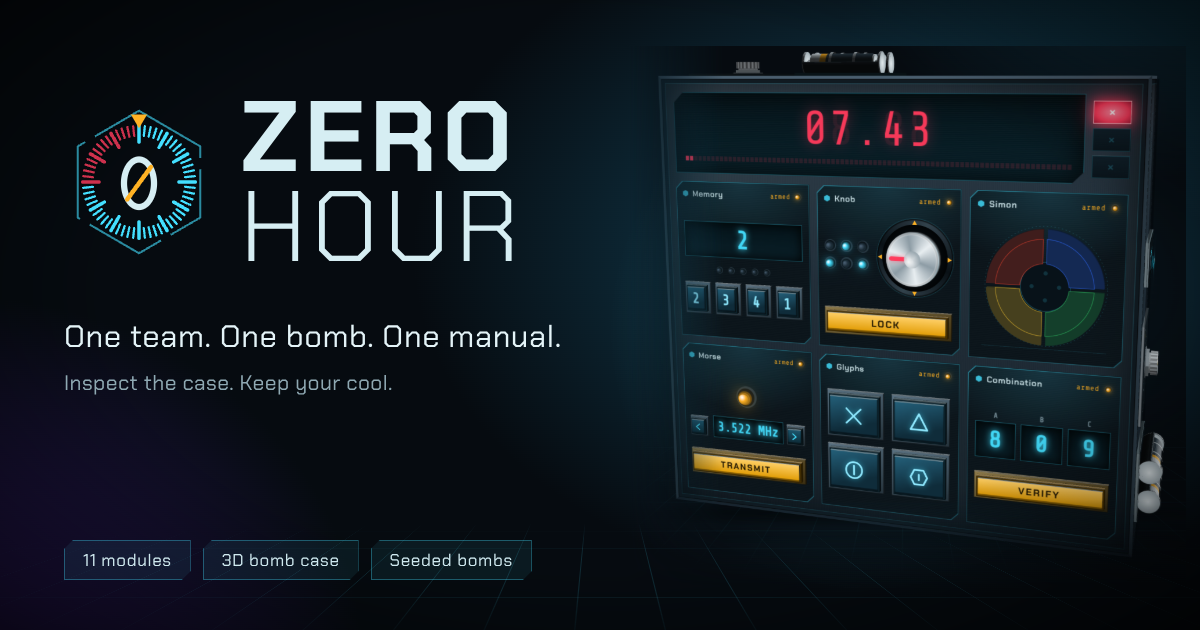
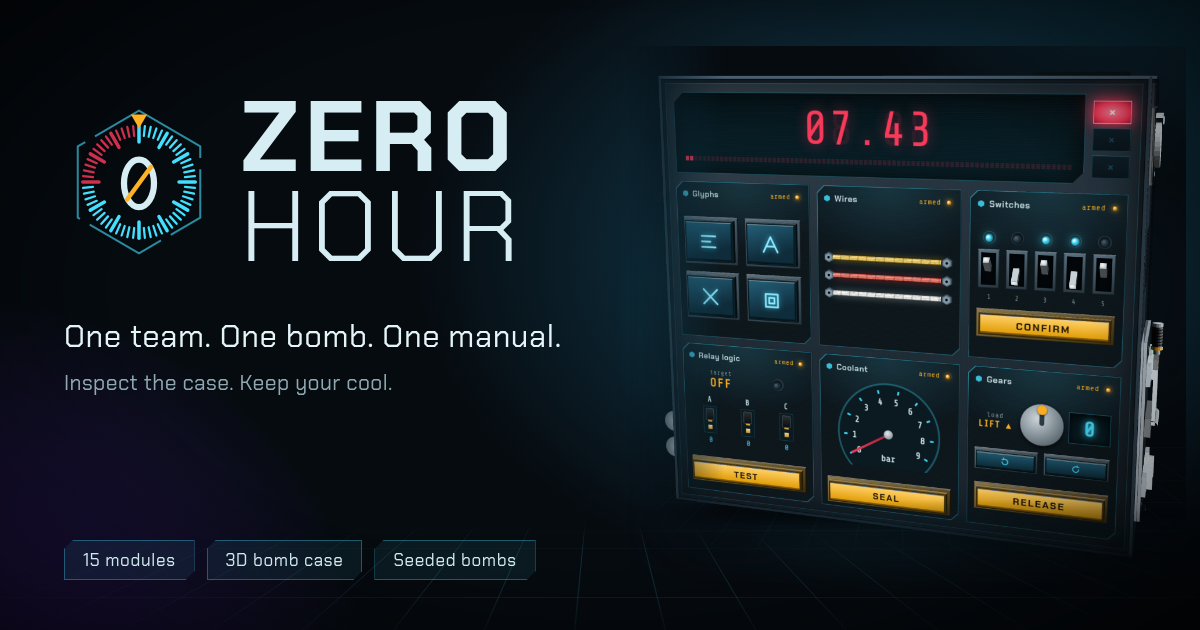
Refresh the social preview with the new modules

diff --git a/README.md b/README.md
@@ -1,6 +1,6 @@
 # Zero Hour
 
-[![Zero Hour: a 3D bomb case with Memory, Knob, Simon, Morse, Glyphs and Combination modules](site/zero-hour-preview.png)](https://zero-hour.sunken.dev/)
+[![Zero Hour: a 3D bomb case with Glyphs, Wires, Switches, Relay logic, Coolant and Gears modules](site/zero-hour-preview.png)](https://zero-hour.sunken.dev/)
 
 **One team. One bomb. One manual.**
 
@@ -9,7 +9,8 @@ other reads the manual and cannot see the bomb. Describe what you see, find the 
 
 Live at **https://zero-hour.sunken.dev/**
 
-- 11 modules with a front and, for some, a rear plate on the back of the bomb
+- 15 modules, each rated easy, medium or hard, with a front and, for most, a rear plate on the back of the bomb
+- choose a difficulty: modules of that rating come up more often
 - a 3D case you turn with the mouse, with hints hidden on all sides
 - seeds: the same seed with the same settings gives the same bomb
 - a manual built from the same source as the game, also as a PDF
@@ -59,8 +60,9 @@ test fails if you forget, and the deploy workflow rebuilds the PDF anyway.
 
 ### Adding a module
 
-A module is one `Modules.register({ ... })` block in `site/index.html`: `id`, `title`, `create(bomb, r)`, `mount(root, state, ctl)`
-and `manual()`, plus optional `mountBack` and `manualBack` for a rear plate, `max` and `needs`. The comment above the module
+A module is one `Modules.register({ ... })` block in `site/index.html`: `id`, `title`, `difficulty`, `create(bomb, r)`,
+`mount(root, state, ctl)` and `manual()`, plus optional `mountBack` and `manualBack` for a rear plate, `max` and `needs`. The
+front and the rear plate get the same `state` object, so a rear plate can be a working part of the puzzle. The comment above the module
 registry describes each field, and there is a template just before the "ADD YOUR OWN MODULE" comment. The module viewer
 (Settings, then Debug, then Module viewer) shows any module on its own, front and rear, with its state and a log.
 
